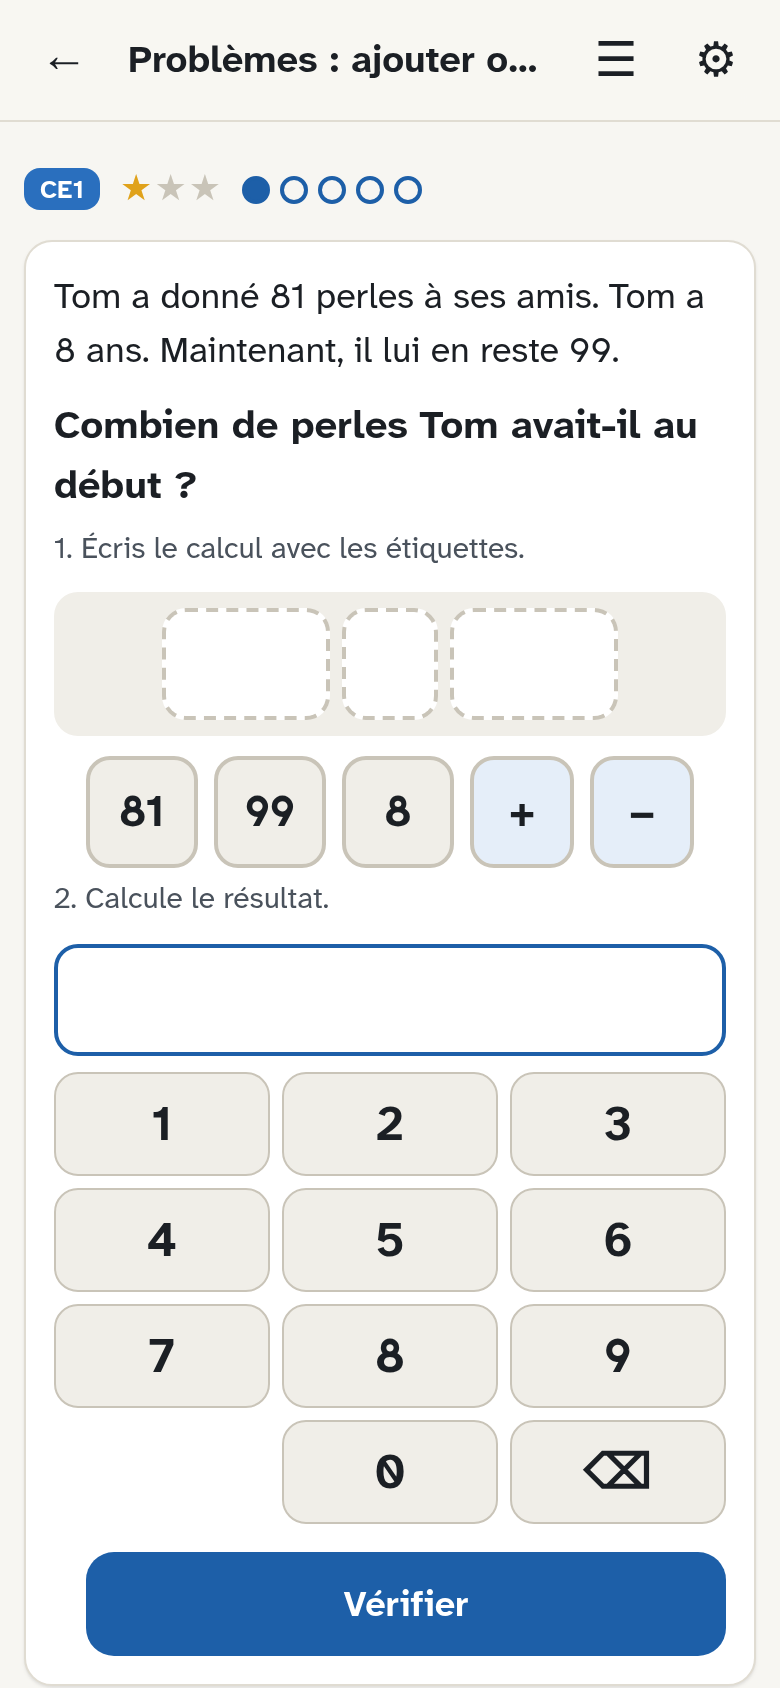
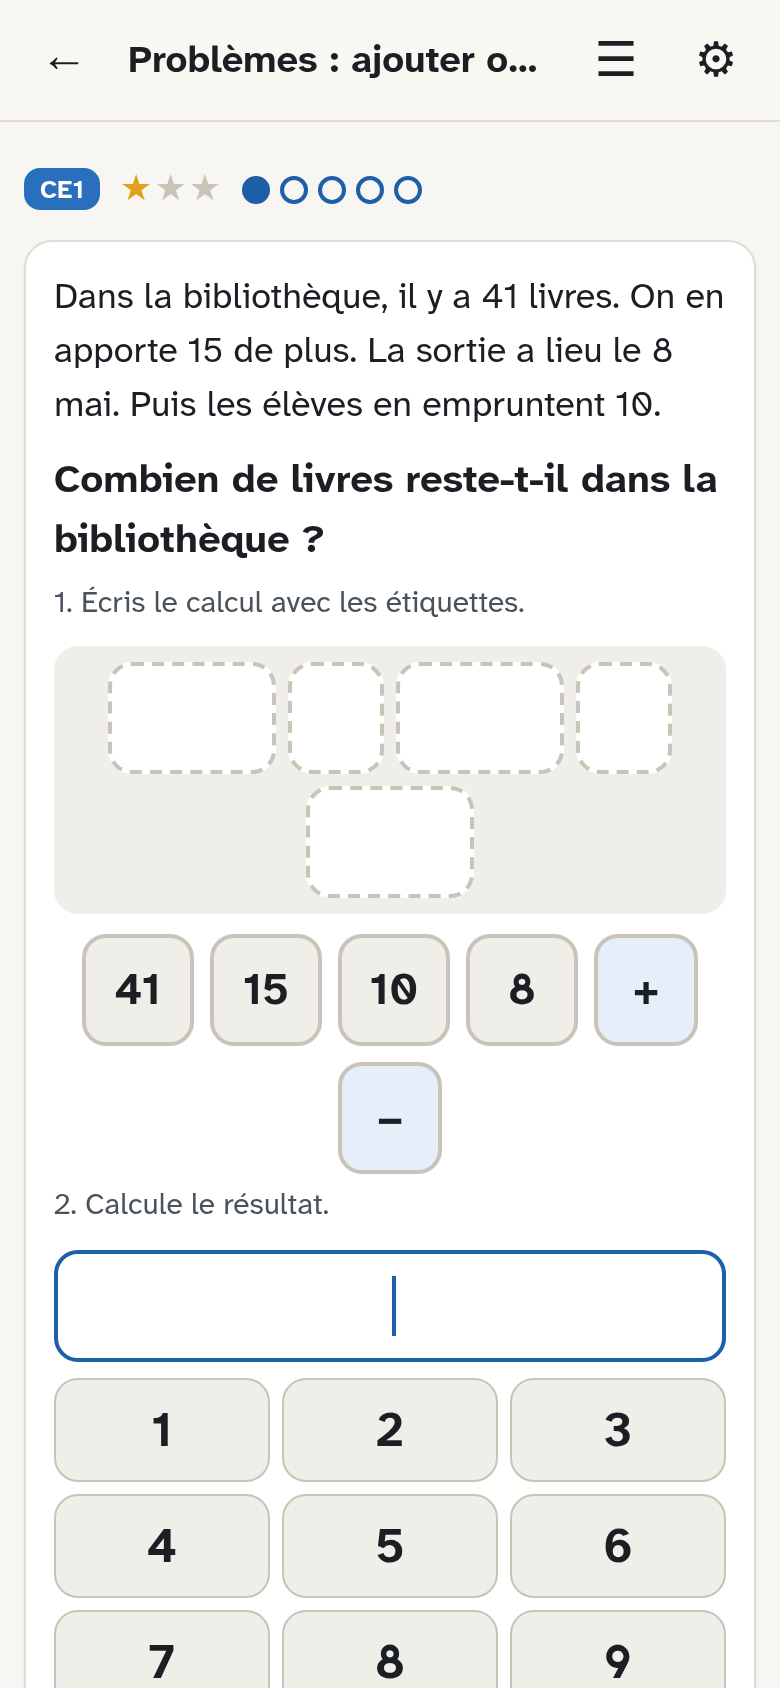
v0.14.1 : CE1 tout ≤ 100 au palier 3 (probadd, calcul mental 2 chiffres, probmul ≤ 100, durées ≤ 1 h 30)

diff --git a/tests/props.test.ts b/tests/props.test.ts
@@ -182,7 +182,7 @@ for (const lv of LV4) for (const p of P) for (let s = 1; s <= N; s++) {
 }
 
 // ---- bornes de calcul par niveau (retour Nguhma 24/10 : CE1 faisable de tête ou presque)
-const CAPS: Record<string, number[]> = { CE1: [100, 100, 200], CE2: [600, 5000, 10000] };
+const CAPS: Record<string, number[]> = { CE1: [100, 100, 100], CE2: [600, 5000, 10000] };
 const num = (x: string) => Number(x.replace(/\D/g, ''));
 for (const lv of LV) for (const p of P) {
   let conv = new Set<string>();
@@ -199,17 +199,17 @@ for (const lv of LV) for (const p of P) {
     }
     t(okc && pb.inst.answer <= cap, `pb plafond ${cap} ${tag} ${pb.inst.model}`);
     if (lv === 'CE1' && p === 1) t(!carry, `pb CE1 p1 sans retenue ${tag} ${pb.inst.model}`);
-    if (lv === 'CE1' && p < 3) t(pb.inst.nums.every((x) => x <= 100), `pb CE1 p${p} nombres ≤ 100 ${tag}`);
+    if (lv === 'CE1') t(pb.inst.nums.every((x) => x <= 100) && pb.inst.useless.every((x) => x <= 100), `pb CE1 p${p} nombres ≤ 100 ${tag}`);
     // probmul CE1 : tables de 2, 5, 10 au palier 1 ; produit ≤ 100 puis ≤ 150
     const pm = probmul.generate(lv, p, s);
     if (lv === 'CE1') {
-      t(pm.inst.answer <= [90, 100, 150][p - 1], `pmul CE1 produit ${tag} ${pm.inst.model}`);
+      t(pm.inst.answer <= [90, 100, 100][p - 1] && pm.inst.nums.every((x) => x <= 100), `pmul CE1 produit ${tag} ${pm.inst.model}`);
       const f = pm.inst.model.match(/^(\d+) × (\d+)$/);
       if (f && p === 1) t([2, 5, 10].includes(+f[1]) || [2, 5, 10].includes(+f[2]), `pmul CE1 p1 table 2/5/10 ${tag} ${pm.inst.model}`);
     } else t(pm.inst.answer <= 10000, `pmul CE2 ≤ 10 000 ${tag}`);
     // mental CE1 : 2 chiffres aux paliers 1–2
     const mm = mental.generate(lv, p, s); const mr = mental.solution(mm);
-    if (lv === 'CE1') t(Math.max(mm.a, mr) <= (p < 3 ? 99 : 1000), `mental CE1 p${p} ${tag} ${mm.a} ${mm.op} ${mm.b}`);
+    if (lv === 'CE1') t(Math.max(mm.a, mm.b, mr) <= 100, `mental CE1 p${p} ≤ 100 ${tag} ${mm.a} ${mm.op} ${mm.b}`);
     else t(Math.max(mm.a, mr) <= (p === 1 ? 999 : 10000), `mental CE2 p${p} ${tag}`);
     if (mm.kind === 'moinsU') t(mm.a % 10 > 0, `mental moinsU pas « − 0 » ${tag}`);
     // convertir : unités du programme et nombres dans le champ du niveau
@@ -224,7 +224,7 @@ for (const lv of LV) for (const p of P) {
     // heures et durées CE1 : quarts d'heure
     if (lv === 'CE1') {
       const ho = horloge.generate(lv, p, s); t(ho.m % 15 === 0, `horloge CE1 quarts ${tag}`);
-      const du = duree.generate(lv, p, s); t(du.m1 % 15 === 0 && du.m2 % 15 === 0 && duree.solution(du) <= [45, 60, 120][p - 1], `durée CE1 quarts ${tag}`);
+      const du = duree.generate(lv, p, s); t(du.m1 % 15 === 0 && du.m2 % 15 === 0 && duree.solution(du) <= [45, 60, 90][p - 1], `durée CE1 quarts ${tag}`);
       const ms = probmes.generate(lv, p, s); t(ms.answer <= 1000, `probmes CE1 ≤ 1 000 ${tag}`);
     }
     // corrigé de la soustraction posée : jamais de nombre négatif (403 − 158)

diff --git a/src/exos/mental.ts b/src/exos/mental.ts
@@ -25,9 +25,9 @@ export const mental: ExoType<MenData, number> = {
   levels: ['CE1', 'CE2', 'CM1', 'CM2', '6e'],
   generate(lv, p, seed) {
     const r = rng(seed);
-    // CE1 : nombres à 2 chiffres aux paliers 1–2 (passer par la dizaine, ± 9) ; 3 chiffres au palier 3 (746 + 80, programme).
+    // CE1 : tout ≤ 100 (passer par la dizaine, ± 9, ± dizaines : 46 + 30, 72 − 9).
     // CE2 : nombres jusqu’à 999 au palier 1, puis jusqu’à 9 999.
-    const big = lv === 'CE1' ? (p < 3 ? 99 : 999) : lv === 'CE2' ? (p === 1 ? 999 : 9999) : { CM1: 99999, CM2: 99999, '6e': 999999 }[lv];
+    const big = lv === 'CE1' ? 99 : lv === 'CE2' ? (p === 1 ? 999 : 9999) : { CM1: 99999, CM2: 99999, '6e': 999999 }[lv];
     for (;;) {
       const kind = r.pick(KINDS[lv][p - 1]);
       let a = 0, b = 0, op: '+' | '−' = '+';
@@ -35,8 +35,10 @@ export const mental: ExoType<MenData, number> = {
       if (kind === 'moinsU') { op = '−'; a = r.int(21, Math.min(big, 999)); b = r.int(2, 9); if (a % 10 >= b || a % 10 === 0) continue; }
       if (kind === 'plus9') { a = r.int(23, big - 40); b = r.pick(lv === 'CE1' ? [9] : [9, 19, 29]); if (a % 10 <= 1) continue; }
       if (kind === 'moins9') { op = '−'; a = r.int(40, big); b = r.pick(lv === 'CE1' ? [9] : [9, 19]); if (a % 10 >= 9) continue; }
-      if (kind === 'plusD') { a = r.int(110, big - 100); b = r.int(2, 9) * 10; if (Math.floor(a / 10) % 10 + b / 10 < 10) continue; }
-      if (kind === 'moinsD') { op = '−'; a = r.int(110, big); b = r.int(2, 9) * 10; if (Math.floor(a / 10) % 10 >= b / 10) continue; }
+      if (kind === 'plusD' && lv === 'CE1') { a = r.int(12, 79); b = r.int(1, Math.floor((99 - a) / 10)) * 10; if (b < 10 || a % 10 === 0) continue; }
+      else if (kind === 'moinsD' && lv === 'CE1') { op = '−'; a = r.int(31, 99); b = r.int(1, Math.floor(a / 10) - 1) * 10; if (b < 10 || a % 10 === 0) continue; }
+      else if (kind === 'plusD') { a = r.int(110, big - 100); b = r.int(2, 9) * 10; if (Math.floor(a / 10) % 10 + b / 10 < 10) continue; }
+      else if (kind === 'moinsD') { op = '−'; a = r.int(110, big); b = r.int(2, 9) * 10; if (Math.floor(a / 10) % 10 >= b / 10) continue; }
       if (kind === 'plusC') { a = r.int(1100, Math.max(1200, big - 1000)); b = r.int(2, 9) * 100; if (Math.floor(a / 100) % 10 + b / 100 < 10) continue; }
       const d: MenData = { lv, p, a, b, op, kind };
       if (res(d) < 0 || res(d) > big) continue;

diff --git a/src/exos/pb/engine.ts b/src/exos/pb/engine.ts
@@ -101,7 +101,7 @@ export function makeProblemExo(id: string, title: string, notion: string, levels
 }
 /** Plages des nombres des problèmes, par niveau et par palier (palier 1, 2, 3). */
 export const RANGES: Record<Level, [number, number][]> = {
-  CE1: [[10, 60], [10, 90], [10, 99]],
+  CE1: [[10, 60], [10, 90], [10, 90]],
   CE2: [[20, 300], [100, 2000], [100, 4000]],
   CM1: [[1000, 60000], [1000, 60000], [1000, 60000]],
   CM2: [[1000, 600000], [1000, 600000], [1000, 600000]],
@@ -109,9 +109,9 @@ export const RANGES: Record<Level, [number, number][]> = {
 };
 /**
  * Plafond de tous les nombres du calcul (données, résultats intermédiaires, réponse), par palier.
- * CE1 : calcul faisable de tête ou presque (≤ 100, puis ≤ 200) ; palier 1 sans retenue.
+ * CE1 : calcul faisable de tête ou presque : tout ≤ 100 à tous les paliers ; palier 1 sans retenue.
  */
-export const CAP: Partial<Record<Level, [number, number, number]>> = { CE1: [100, 100, 200], CE2: [600, 5000, 10000] };
+export const CAP: Partial<Record<Level, [number, number, number]>> = { CE1: [100, 100, 100], CE2: [600, 5000, 10000] };
 /** Le calcul « a + b − c » (lu de gauche à droite) respecte-t-il les plafonds du niveau ? */
 export function calcOK(lv: Level, p: Palier, model: string): boolean {
   const cap = CAP[lv]?.[p - 1];

diff --git a/src/exos/pb/multiplicatifs.ts b/src/exos/pb/multiplicatifs.ts
@@ -10,10 +10,10 @@ const B: Record<Level, [number, number]> = { CE1: [2, 10], CE2: [12, 99], CM1: [
 const B2: [number, number][] = [[12, 30], [12, 60], [12, 99]];
 /**
  * CE1 : produits des tables travaillées (palier 1 : tables de 2, 5, 10 ; palier 2 : aussi 3 et 4) ;
- * palier 3 : en plus quelques dizaines (3 × 20), produit ≤ 150.
+ * palier 3 : en plus quelques dizaines (3 × 20), produit ≤ 100.
  */
 function ab1(r: Rng, p: Palier): [number, number] {
-  if (p === 3 && r.next() < 0.3) { const a = r.int(2, 5), b = 10 * r.pick(a <= 3 ? [2, 3, 4, 5] : [2, 3]); return [a, b]; }
+  if (p === 3 && r.next() < 0.3) { const a = r.int(2, 5), b = 10 * r.pick(a === 2 ? [2, 3, 4, 5] : a === 3 ? [2, 3] : [2]); return [a, b]; }
   const t = r.pick(p === 1 ? [2, 5, 10] : [2, 3, 4, 5, 10]), o = r.int(2, p === 1 ? 9 : 10);
   return r.next() < 0.5 ? [t, o] : [o, t];
 }

diff --git a/src/exos/mes/suite.ts b/src/exos/mes/suite.ts
@@ -12,9 +12,9 @@ export const duree: ExoType<DuData, number> = {
   generate(lv, p, seed) {
     const r = rng(seed);
     if (lv === 'CE1') {
-      // CE1 : heures en quarts d’heure ; palier 1 dans la même heure, puis jusqu’à 1 h, puis jusqu’à 2 h.
+      // CE1 : heures en quarts d’heure ; palier 1 dans la même heure, puis jusqu’à 1 h, puis jusqu’à 1 h 30 (≤ 100 min).
       for (;;) {
-        const h1 = r.int(7, 16), m1 = r.pick([0, 15, 30, 45]), dur = 15 * r.int(1, [3, 4, 8][p - 1]);
+        const h1 = r.int(7, 16), m1 = r.pick([0, 15, 30, 45]), dur = 15 * r.int(1, [3, 4, 6][p - 1]);
         const t2 = toMin(h1, m1) + dur;
         if (p === 1 && m1 + dur >= 60) continue;
         return { lv, p, h1, m1, h2: Math.floor(t2 / 60), m2: t2 % 60 };
